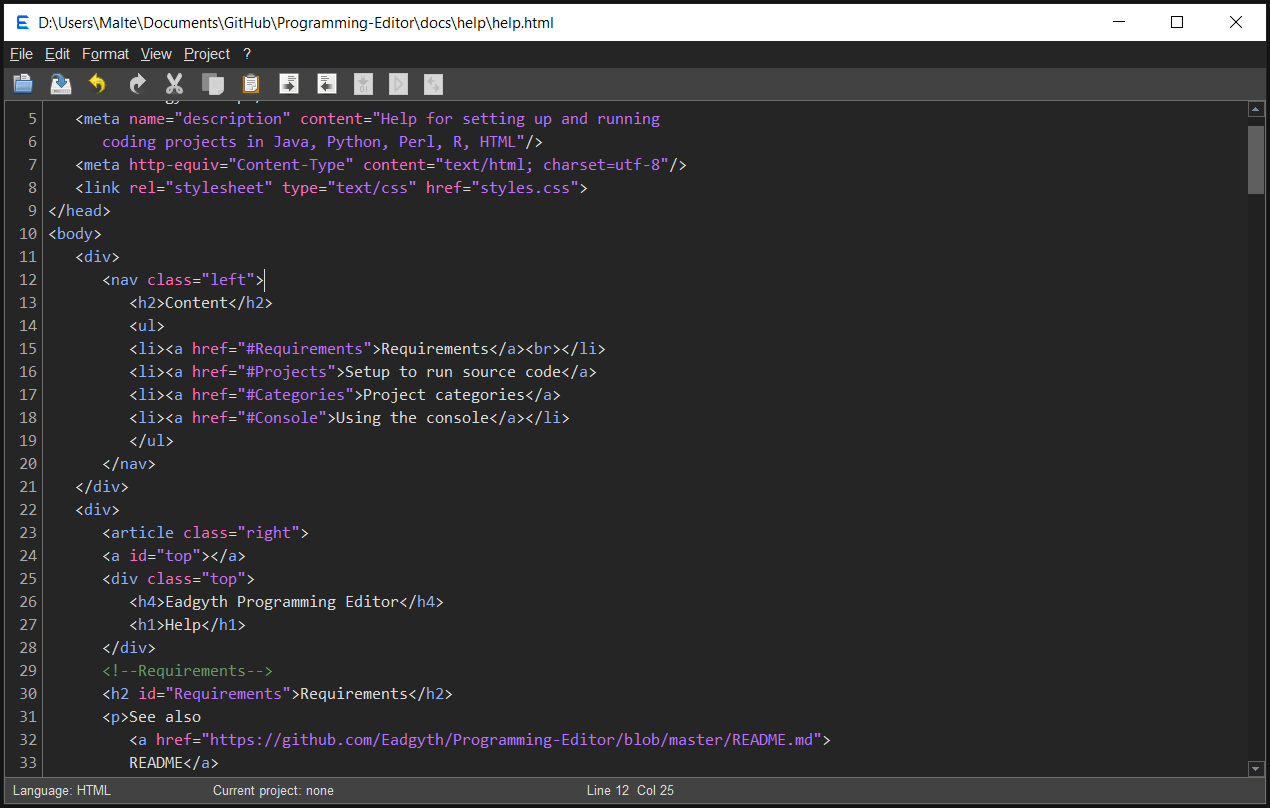
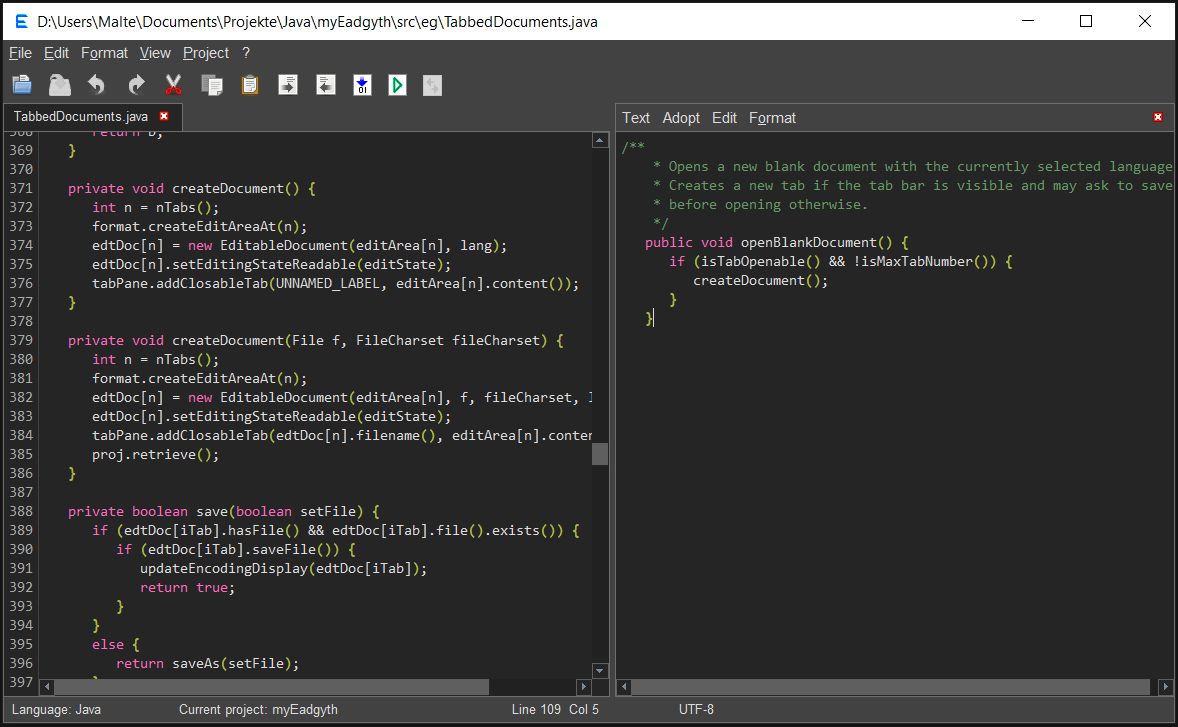
Update Help.md, index-md and README.md

Changed region(s): [[0.0, 0.0, 1.0, 0.9986]]

diff --git a/docs/index.md b/docs/index.md
@@ -1,90 +1,33 @@
-I (Malte) started to make a text editor when I started to learn Java for myself and wished
-that Notepad had a compile and a run button. I knew that really versatile code editors and
-IDEs exist but using them seemed very complicated to me.
-
-Therefore, a goal is that it is as simple as possible to set up the editor to try out code
-from within it and provide at the same time some flexibility to use it for real coding
-projects.
-
-The github repository for the program also contains, well ... "releases" (a record of my
-attempts to fix bugs and add useful features). Anyway, there an executable jar file of the
-program can be found for trying it out (requires JDK 8 or higher).
-
-See also <a href="https://github.com/Eadgyth/Programming-Editor/blob/master/README.md">
-README</a> for requirements.
-
-<hr>
-<h3>How to set up Eadgyth to run code?</h3>
-The program is set up for running source code by defining a "project". This is initially
-just a working directory which distinguishes "project files" from "non-project files" and
-where commands (built-in or custom) are executed. Setting a project only requires that any
-file that is found in the intended project directory is open and in the selected tab
-if multiple files are open. This file may also be found in a sub-directory path relative
-to the project directory and does not have to be the "main" source file. The same is true
-for running a project: it is not necessary that the "main" source file is selected (it
-does not even have to be open) but it is necessary that any file of the project is open
-(and selected).
-
-The screenshots below give examples for project settings (the settings dialog is somewhat
-modified in newer versions, though).
-
-<hr>
-<h4> Example for a 'Hello World' program in Python</h4>
-This is an example for a 'Hello World' program in Python. The script was saved as hello_world.py
-in the directory helloworld which is also the intended project root. The project settings are
-opened by selecting 'Settings for...' and choosing the category Python:
-
-<img src="images/opensettingsPy.png" width="600"/>
-
-In the project settings the name of the project directory and the name of the script are
-entered:
-
-<img src="images/projectsettingsPy.png" width="600"/>
+<p>This site summarizes the updated features of the editor and displays the collection of images from the <a href="https://github.com/Eadgyth/Programming-Editor/tree/master/docs">docs</a> folder.</p>
+<p>Builds of the Editor are availeable as JAR under <a href="https://github.com/Eadgyth/Programming-Editor/releases">release</a>. The most recent JAR is currently available in the repository as Eadgyth.121_preview. If you give the editor a try, I would be grateful for comments via the GitHub Issues page. The editor is a personal learning project and is best suited for personal use when a more advanced editor or IDE is not necessary. The goal is to provide an easy setup to try out your own code, while maintaining enough flexibility to use it for real coding projects.</p><br><br>
 
 
-Then, after clicking OK, the script is run by selecting 'Save and run' in the toolbar or
-in the 'Project' menu. This opens the console panel which shows the output:
-
-<img src="images/runPy.png" width="600"/>
-
-<hr>
-<h4> Example for a Java program</h4>
-For Java the settings could be as simple as in the example for Python above: Just have a
-Java file with a main method in any direcory which is set as the project directory.
-However, this example simulates a Java project with a directory structure that includes a
-source directory, an output directory and a main class that belongs to a package: The
-'Hello World' program was saved as HelloWorld.java in the directory ..\helloworld\scr\hello
-where 'helloworld' is should be the project directory. 'src' is defined as the source root
-directory inside the project and 'hello' is a directory that corresponds to the package
-which the source file belongs to. The package name is declared at the top of the code. The
-project settings are opened by choosing the category Java:
-
-<img src="images/opensettings.png" width="600"/>
-
-
-The name of the project directory, the name of the source directory and the name of the
-Java file (could also be qualified: hello.HelloWorld) are entered. Finally, the name for
-a distination directory for a compiled class file (next step) is specified. This directory
-does not have to exists initially.
-
-<img src="images/projectsettings.png" width="600"/>
-
-
-<blockquote>NOTE: If a main Java source file is part of a package but is not saved in a
-subdirectory (path) that corresponds to the package the qualified name (e.g.
-my.package.myprogram.java) must be specified to be able to run the program.</blockquote>
-<br>
-A project may be viewed in the 'Project explorer'. After a try to compile the program the
-console shows the error in the code:
-
-<img src="images/compile.png" width="600"/>
+<h4>Features for editing text are ...</h4>
+<ul>
+<li>Find/replace (replace all is undoable/redoable)</li>
+<li>Clearing end-of-line (trailing) white spaces.</li>
+<li>Choosing between spaces and tabs for indentation.</li>
+<li>Auto-indentation which distinguishes "curly-bracket-indentation".</li>
+<li>Block-wise increase or decrease of the indentation.</li>
+<li>A 'notes' editor next to the main editor with shortcuts to exchange text.</li>
+<li>A basic syntax highlighting (for Java, Python, R, HTML, XML, CSS, Javascript, PHP, C#).</li>
+</ul>
+<p>
+<h4>Features for running source code are ...</h4>
+<ul>
+<li>Compile and run Java code that may be organized in packages and create an executable jar file. Includes support for using external libraries. A Java program may also be run on the module path.</li>
+<li>Compile and run C# code. The internal commands use .NET SDK (as of vs. 1.2.1.) Note: the editor creates a new minimal .csproj file on every compile.</li>
+<li>Run scripts in Python or R.</li>
+<li>Specify additional options or arguments for the built-in commands.</li>
+<li>Run own commands in a project categorie "Custom Commands".</li>
+<li>View HTML code in the default browser.</li>
+<li>A console for showing output/error during running (or compiling) a program and entering input in interactive command-line programs.</li>
+<li>Set up several projects which can be switched between and retrieve project settings after newly starting the editor.</li>
+</ul>
+<br><br>
+<img src="images/DarkBlueBackground.png" width="700"/><br><br>
+<img src="images/DarkGrayBackground.png" width="700"/><br><br>
+<img src="images/SettingsDialogExample.png" width="700"/><br><br>
+<img src="images/LikeNotepadView.png" width="700"/><br><br>
 
 
-After correcting the code a new compilation generates the class file hello\HelloWorld.class
-in the 'bin' directory and the program can be run:
-
-<img src="images/run.png" width="600"/>
-
-<hr>
-Please also have a look at the [Help](./Help.md) which is
-also accessible from the '?' menu.

diff --git a/docs/Help.md b/docs/Help.md
@@ -18,12 +18,15 @@ built-in compile function Eadgyth must be run with the runtime environment
 API contained in the JDK. As of Java 11 JREs are only available in conjunction
 with a JDK anyway.
 <p>
-It is further important to note that the built-in commands to run code from
-within the editor basically work in the same way as if commands are run from
-the command line or terminal. This means, that the computer must be set up
-accordingly:<br><b>The executables of a language must be installed and the
-paths to them set permanently as PATH system (environment) variables.</b>
+It is further important to note that the built-in commands to run C#, Python
+an R assume that the pathx to the executables are set as PATH system
+(environment) variables.</b>
 <p>
+Running code (and comiling) code using the built-in function requires UTF-8
+encoded files for reliable output as of vs.1.2.1. The editor can open files
+with legacy encodings (the system default used as fallback, or a fallback
+encoding can be selected in the File menu before opening a file). Files may
+be converted to UTF-8 (and reverted to the original encoding).
 See also
 <a href="https://github.com/Eadgyth/Programming-Editor/blob/master/README.md">
 README</a>
@@ -32,12 +35,10 @@ README</a>
 <h4>Setting a project</h4>
 <ol>
 <li>Open a file from or save a new file to the directory that is the intended
-    root directory of the project. The file may also be saved in a subdirectory
-    or a subdirectory path contained in the project directory. Assigning a
-    project only requires that a (any) file that is contained in the project
-    directory is open or in the selected tab if multiple files are open. The
-    project directory is the working directory where commands (built-in or
-    custom) are executed.</li>
+    root directory of the project. Assigning a project only requires that a
+    (any) file that is contained in the project directory is open or in the
+    selected tab if multiple files are open. The project directory is the
+    working directory where commands (built-in or custom) are executed.</li>
 <li>Open the project settings by selecting 'Settings for...' in the 'Project'
     menu and choose the suitable <a href="#Categories">category</a> to open
     the project settings.
@@ -45,13 +46,8 @@ README</a>
 <li>The input options to set a project depend on the category. The required
     entries are the name of the project directory and, except for the
     categories 'HTML' and 'Custom commands', the name of the "main" source
-    file. The name of a separate subdirectory containing source files inside
-    the project (a source directory) would have to be entered in the
-    corresponding text field below the field for the project directory. Click
-    ok. If the input was correct, that is, the specified source file is found
-    in the project directory, the project is set "active" and the project
-    files can be viewed in the 'Project explorer' which is opened from the
-    'View' menu.</li>
+    file. Click ok. If the input was correct, that is, the specified source
+    file is found in the project directory, the project is set "active".</li>
 </ol>
 <h4>Retrieving projects</h4>
 <ul>
@@ -64,8 +60,7 @@ README</a>
     unselecting the option to save it.<br>
     The ProjConfig file marks a project as an "Eadgyth project". This means that
     a project is loaded even if it was not active lastly or other projects are
-    already active. If another project is already active, it is asked to change
-    to the newly loaded project.</li>
+    already active.</li>
 </ul>
 <br>
 <p><a href="#top">Back to top</a></p>
@@ -86,10 +81,6 @@ README</a>
       <td><a href="#CSharpProject">C#</a></td>
       <td>Compile and run C# code; specify DLLs used as
          libraries or also create a DLL</td>
-   </tr>
-   <tr>
-      <td><a href="#PerlProject">Perl</a></td>
-      <td>Run a Perl script; check syntax without running</td>
    </tr>
    <tr>
       <td><a href="#PythonProject">Python</a></td>
@@ -149,12 +140,6 @@ README</a>
 </ul>
 <h4 id="CSharpProject">C#</h4>
 <ul>
-<li>First, it is necessary to set the path to the C# compiler as a system
-    variable. In Windows the path to csc.exe is like:
-   'C:\Windows\Microsoft.NET\Framework64\v[?]\'.
-    For Linux/Mac it is assumed that Mono is installed to compile and run C#
-    and the paths to Mono and the Mono mcs compiler are set permanently as
-    well.</li>
 <li>Compile the source file(s) by selecting 'Save and compile' in the 'Project'
     menu (or clicking the corresponding button in the toolbar). If the
     compilation was successful the program is started by selecting 'Run' in the
@@ -163,27 +148,9 @@ README</a>
     file specified in the project settings. An alternative name (or a pathname)
     for an output file can be entered in the 'Compile/build' tab in the
     project settings.</li>
-<li>A separate destination directory for a compiled file inside the project
-    directory can be specified in the 'Compile/build' tab (like 'bin' or 'out').
-    This folder is created when .cs files are compiled.</li>
-<li>A DLL may be created by specifying the corresponding compiler option
-    '-t:library' (or '-target:library') in the 'Compile/build' tab. It is also
-    possible to enter a pathname for the output file so that the DLL is
-    created in another project that uses or tries it.</li>
-<li>DLLs to be used by a C# program are specified in the 'Libraries' tab. The
-    referenced DLLs must be found in the same directory as the .exe that uses
-    them.</li>
-</ul>
-<h4 id="PerlProject">Perl</h4>
-<ul>
-<li>A Perl script is started by selecting 'Save and run' (or by clicking
-    the corresponding button in the toolbar).</li>
-<li>The Perl script may be checked for correct syntax without running it by
-    by selecting 'Save and compile' (this starts the script with the -c
-    option).</li>
-<li>NOTE: For correct output of a Perl program to the console window it may be
-    necessary to turn of buffering of the standard output in the script (e.g.
-    by adding $| = 1 at the beginning of the script).</li>
+<li>A library DLL may be created by specifying the corresponding compiler option
+    '-t:library' (or '-target:library') in the 'Compile/build' tab.</li>
+<li>DLLs to be used by a C# program are specified in the 'Libraries' tab.</li>
 </ul>
 <h4 id="PythonProject">Python</h4>
 <ul>

diff --git a/README.md b/README.md
@@ -1,70 +1,50 @@
 <h3>Eadgyth Programming Editor</h3>
 <p>
-A text and code editor written in Java. It features a simple project setup to compile
-and run code from within the editor. Built-in functions to run code are available for
-Java, C#, Python and R. The editor is intended for learning, quick prototyping, or
-programming projects for personal use.
+A text and code editor written in Java. It features an easy project setup to compile
+and run code from within the editor with support for Java, C#, Python and R.
+The editor is suited for learning, quick prototyping, or programming projects
+for personal use.
 <p>
 The editor can be tried out by downloading the executable jar file in a
-<a href="https://github.com/Eadgyth/Programming-Editor/releases">release</a>. It is run with:
+<a href="https://github.com/Eadgyth/Programming-Editor/releases">release</a>.
+It is run with:
 
 ```
 java -jar Eadgyth.jar
 ```
 
+<p>
+The progam can be built in Netbeans or Eclipse (or with a build of Eadgyth itself)
+using the src directory in the repo. The name of the main file is eg.Eadgyth.java.
+
 <h4>REQUIREMENTS</h4>
 <ul>
 <li>JDK 8 or higher to run and build the editor.</li>
-<li>To compile Java code by the built-in compile function, the editor must be run
-with the JRE contained in a JDK (not an issue with Java 11+).</li>
-<li>The editor requires UTF-8 encoding to execute source files as of vs. 1.2.1
-(the option to convert files to UTF-8 is available). Previous versions (in releases)
-assume the system (or JVM) default encoding.</li>
-</ul>
-
-> [!IMPORTANT]
-> Environment variables must be set in your operating system (OS) settings to
-> compile or run code from within the Editor (i.e., the system PATH for Python, R,
-> and dotnet).
-
-<h4>Features for editing text are ...</h4>
-<ul>
-<li>Find/replace.</li>
-<li>Clearing end-of-line (trailing) white spaces.</li>
-<li>Choosing between spaces and tabs for indentation.</li>
-<li>Auto-indentation which distinguishes "curly-bracket-indentation".</li>
-<li>Block-wise increase or decrease of the indentation.</li>
-<li>A 'notes' editor next to the main editor.</li>
-<li>A basic syntax highlighting (for Java, Python, R, HTML, XML, CSS,
-    Javascript, PHP, C#).</li>
-</ul>
-<p>
-<h4>Features for running source code are ...</h4>
-<ul>
-<li>Compile and run Java code that may be organized in packages and create an
-executable jar file.</li>
-<li>Compile and run C# code using .NET SDK (as of vs. 1.2.1.)<br>
-Note: the editor creates a new minimal .csproj file on every compile.</li>
-<li>Run scripts in Python or R.
-<li>Specify additional options or arguments for the built-in commands.</li>
-<li>View HTML code in the default browser.</li>
-<li>A console for showing output/error during running (or compiling) a program
-and entering input in interactive command-line programs.</li>
-<li>Set up several projects which can be switched between and retrieve project
-settings after newly starting the editor.</li>
+<li>To compile Java code by the built-in compile function, the editor must be
+run with the JRE contained in a JDK (not an issue with Java 11+).</li>
+<li>As of v1.2.1, the editor requires UTF-8 encoding of source files to ensure
+reliable output when running code (an option to convert files to UTF-8 is
+available). Previous versions assumed the system or JVM default encoding.</li>
+<li>:information_source: The executable paths for Python, R, and .NET must be
+included in your system PATH. To compile and run C# code, the editor internally
+calls the dotnet command, which requires an .NET SDK to be installed. A minimalistic
+.csproj file is generated upon compilation.</li>
 </ul>
 
 <h4>LIMITATIONS</h4>
 <ul>
-<li>Syntax highlighting is basic.</li>
+<li>Syntax highlighting is simple (keywords, sigils, tags, string literals, line
+and block comments). While generally performant, opening or closing multiline string
+literals may cause temporary delays. At the code level, the syntax highlighting is
+not meant as an example of how it should be done.</li>
 <li>The built-in console may appear frozen when a process buffers its output. This
-potentially affects custom commands. This can often be resolved by enabling
+potentially affects custom commands. This issue can often be resolved by enabling
 auto-flushing via a command-line switch or script command if the language supports
 it.</li>
 </ul>
 <h4>CREDITS & ACKNOWLEDGEMENTS</h4>
 <ul>
-<li>William Gilreath for his advice, comments, enthusiasm</li>
+<li>William Gilreath for his advicea and comments</li>
 <li>The program uses icons from
 <a href="https://github.com/Distrotech/tango-icon-theme">Tango Desktop Project</a>.</li>
 <li>The dark-blue background uses the
@@ -75,11 +55,6 @@ other the dark backgrounds have learned from it.</li>
 <p>
 MIT, see LICENSE<br>
 <p>
-<h4>SCREENSHOTS</h4>
+<h4>SCREENSHOT</h4>
 <p>
-An example for a command-line program in Java (Eadgyth run on Windows 10):
-<br>
-<img src="docs/images/ExampleProject.png" width="800"/><br><br>
-<br>
-The 'Dracula' derived dark-blue background:
-<img src="docs/images/DarkBlueBackground.png" width="800"/><br><br>
+<img src="docs/images/DarkBlueBackground.png" width="600"/><br><br>
